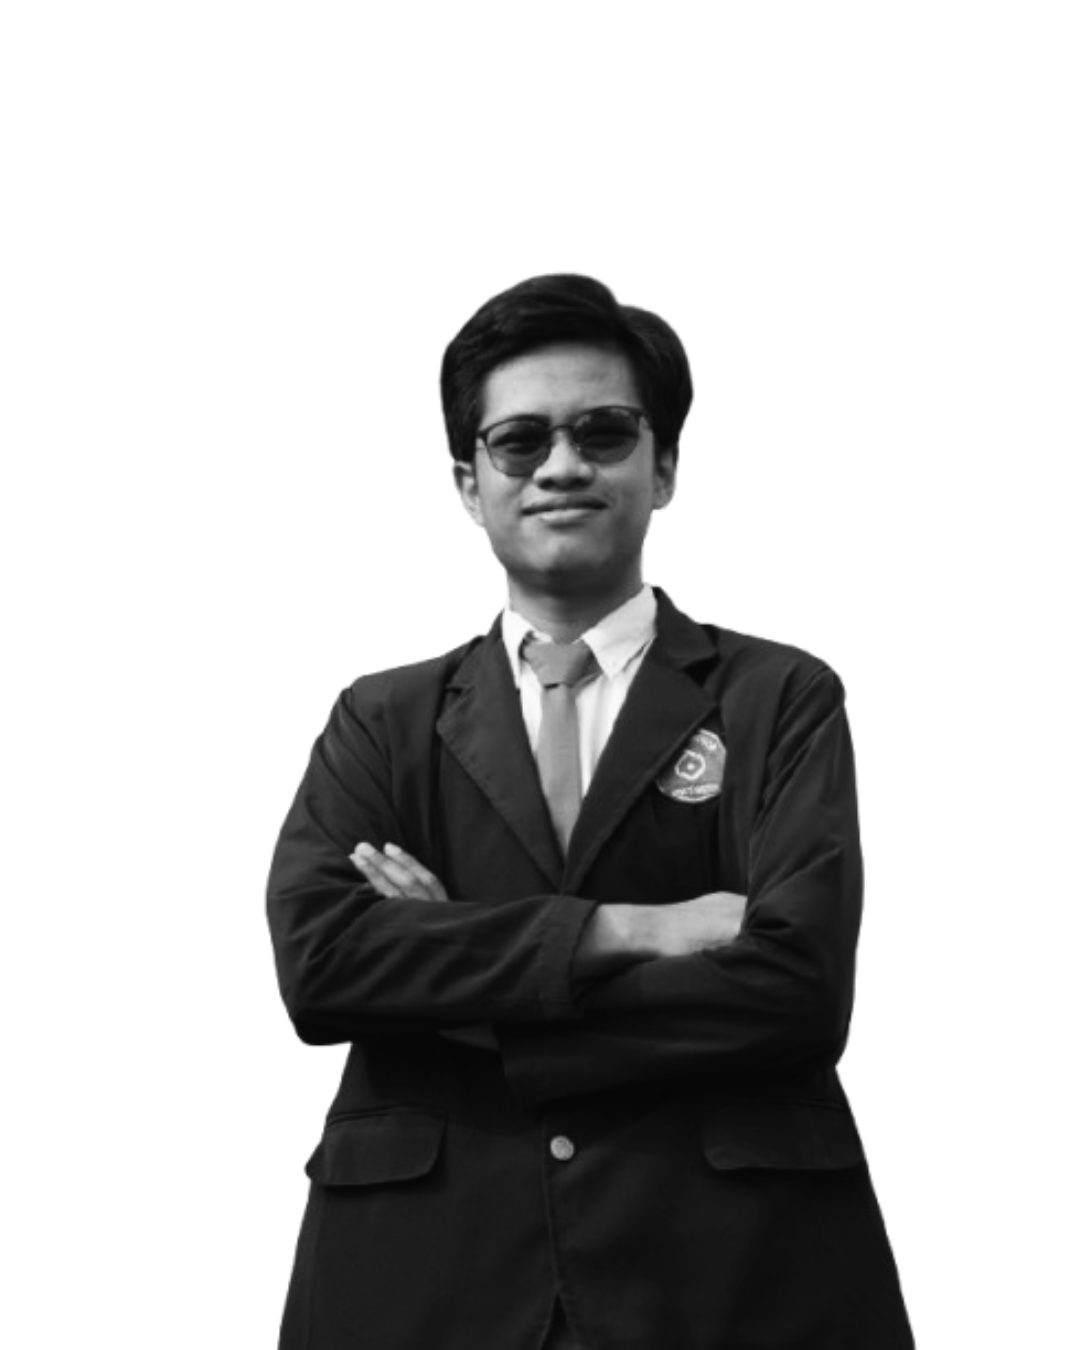
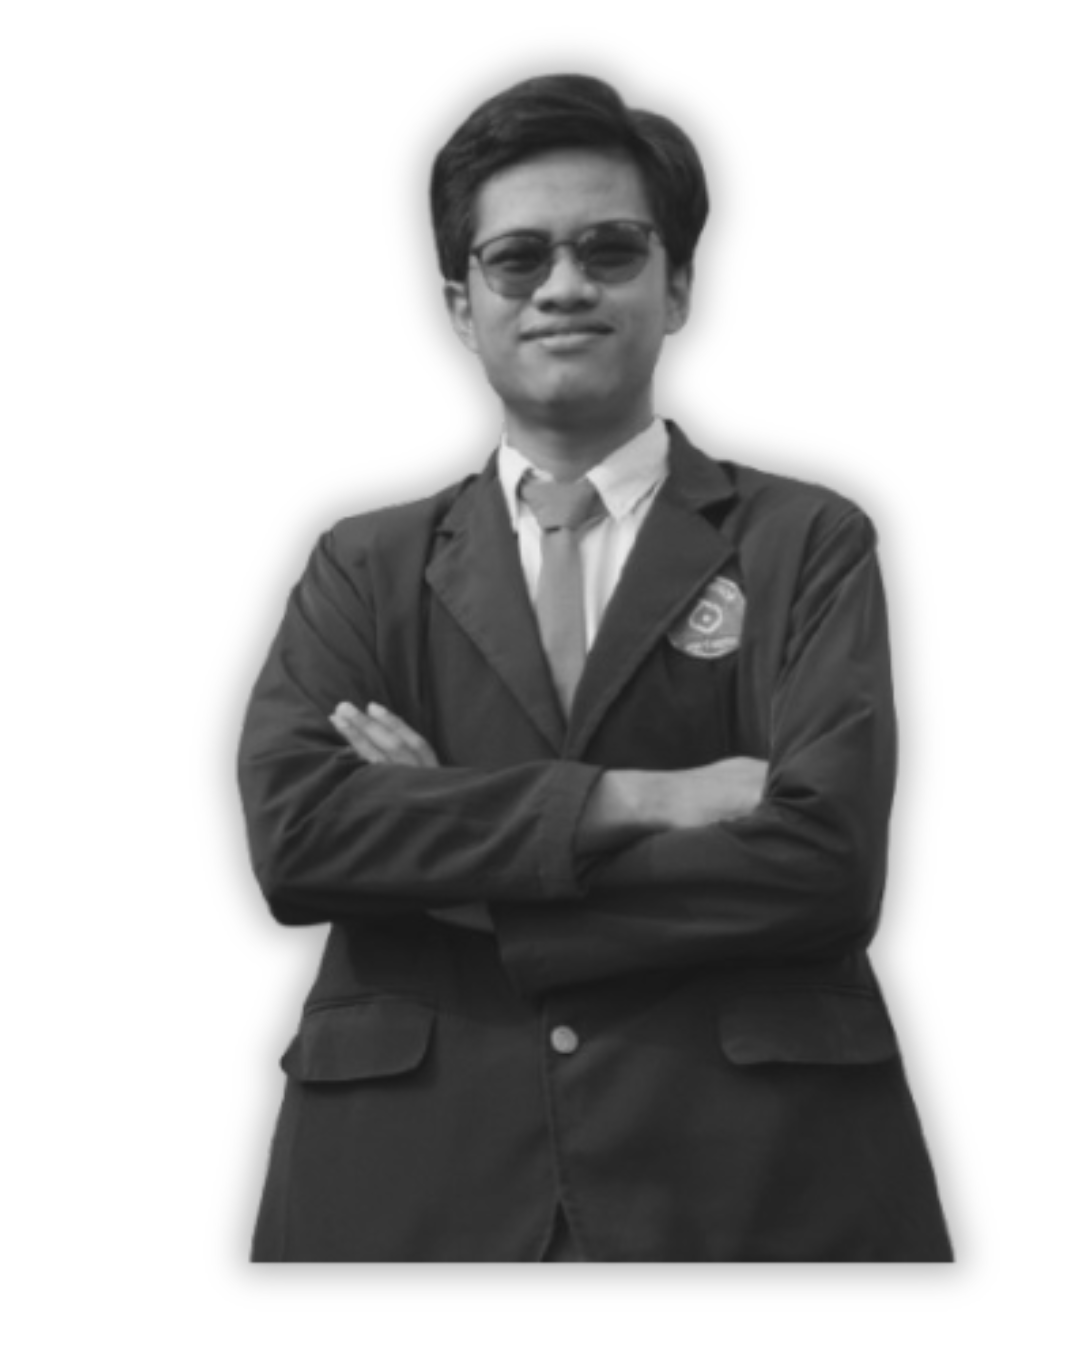
memperbaiki tampilan page

diff --git a/resources/views/shop/contact.blade.php b/resources/views/shop/contact.blade.php
@@ -1,63 +1,76 @@
 <x-shop-layout>
     <div class="py-12">
         <div class="max-w-7xl mx-auto px-4 sm:px-6 lg:px-8">
-            <div class="bg-white dark:bg-gray-800 overflow-hidden shadow-sm sm:rounded-lg">
+            <div class="bg-white dark:bg-gradient-to-tl from-gray-800 via-gray-900 to-gray-900 overflow-hidden shadow-sm sm:rounded-lg">
                 <div class="p-6 text-gray-900 dark:text-gray-100">
                     <!-- Contact Section -->
                     <div class="grid md:grid-cols-2 gap-12 items-center mb-16">
                         <!-- Left Column - Description -->
                         <div class="order-2 md:order-1">
-                            <h1 class="text-4xl font-bold mb-6 uppercase tracking-wider animate-purple-to-blue">Meet The Developer</h1>
+                            <h1 class="text-4xl md:text-5xl font-bold uppercase tracking-wider mb-6 text-violet-400">
+                                Meet the Developer
+                            </h1>
 
-                            <h2 class="text-3xl font-light mb-6">Syahban Syaputra</h2>
+                            <h2 class="text-2xl md:text-3xl font-semibold mb-6">
+                                Syahban Syaputra
+                            </h2>
 
-                            <div class="prose dark:prose-invert max-w-none mb-8">
-                                <p class="mb-4">
-                                    I'm a web developer currently studying at SMK TI BAZMA, majoring in Information
-                                    Systems, Networks, and Applications (SIJA). I specialize in building clean,
-                                    responsive, and user-friendly web applications with a focus on both functionality
-                                    and visual design.
+                            <div class="prose dark:prose-invert max-w-none mb-10 text-base md:text-lg leading-relaxed">
+                                <p>
+                                    I'm a junior web developer and IoT enthusiast currently studying at SMK TI BAZMA,
+                                    majoring in Information Systems, Networks, and Applications (SIJA). I focus on
+                                    building functional, clean, and responsive web applications, combining both
+                                    solid backend logic and intuitive visual design.
                                 </p>
-                                <p class="mb-4">
-                                    My experience includes working with HTML, CSS, JavaScript, PHP, and Express.js, as
-                                    well as design tools like Figma and Illustrator. I've developed several
-                                    projects—from a card-based attendance system and financial reporting dashboard to
-                                    event rating platforms—while actively contributing to school organizations and
-                                    robotics communities.
+                                <br>
+                                <p>
+                                    I’ve worked on a range of impactful projects—like an RFID-based attendance system,
+                                    a real-time financial reporting dashboard, and an event rating platform—primarily
+                                    using technologies like HTML, CSS, JavaScript, PHP, and Express.js. I'm also
+                                    experienced in frameworks like Next.js and design tools such as Figma and
+                                    Illustrator.
                                 </p>
-                                <p class="mb-4">
-                                    I enjoy turning ideas into digital products that are not only functional but also
-                                    intuitive and enjoyable to use. Clean code, good UX, and performance optimization
-                                    are things I care deeply about in every project I build.
+                                <br>
+                                <p>
+                                    Outside of coding, I actively contribute to school organizations, such as OSIS
+                                    and robotics extracurriculars, and have participated in several regional and
+                                    national
+                                    competitions.
+                                </p>
+                                <br>
+                                <p>
+                                    I’m passionate about turning ideas into products that are not only functional,
+                                    but also smooth, enjoyable, and performance-optimized. I believe great products
+                                    are built through clean code, thoughtful UX, and continuous learning.
                                 </p>
                             </div>
 
                             <!-- Social Media Icons -->
                             <div class="flex space-x-20 pt-5 items-center">
-                                <a href="https://instagram.com/yourprofile" target="_blank"
-                                    class="text-gray-700 dark:text-gray-300 hover:text-indigo-600 dark:hover:text-indigo-400 transition-colors">
-                                    <svg class="w-6 h-6" fill="currentColor" viewBox="0 0 24 24">
+                                <a href="https://instagram.com/syahban_245" target="_blank"
+                                    class="text-gray-700 dark:text-gray-300 hover:text-pink-500 dark:hover:text-pink-400 transition-colors">
+                                    <svg class="w-10 h-10" fill="currentColor" viewBox="0 0 24 24">
                                         <path
                                             d="M12 2.163c3.204 0 3.584.012 4.85.07 3.252.148 4.771 1.691 4.919 4.919.058 1.265.069 1.645.069 4.849 0 3.205-.012 3.584-.069 4.849-.149 3.225-1.664 4.771-4.919 4.919-1.266.058-1.644.07-4.85.07-3.204 0-3.584-.012-4.849-.07-3.26-.149-4.771-1.699-4.919-4.92-.058-1.265-.07-1.644-.07-4.849 0-3.204.013-3.583.07-4.849.149-3.227 1.664-4.771 4.919-4.919 1.266-.057 1.645-.069 4.849-.069zm0-2.163c-3.259 0-3.667.014-4.947.072-4.358.2-6.78 2.618-6.98 6.98-.059 1.281-.073 1.689-.073 4.948 0 3.259.014 3.668.072 4.948.2 4.358 2.618 6.78 6.98 6.98 1.281.058 1.689.072 4.948.072 3.259 0 3.668-.014 4.948-.072 4.354-.2 6.782-2.618 6.979-6.98.059-1.28.073-1.689.073-4.948 0-3.259-.014-3.667-.072-4.947-.196-4.354-2.617-6.78-6.979-6.98-1.281-.059-1.69-.073-4.949-.073zm0 5.838c-3.403 0-6.162 2.759-6.162 6.162s2.759 6.163 6.162 6.163 6.162-2.759 6.162-6.163c0-3.403-2.759-6.162-6.162-6.162zm0 10.162c-2.209 0-4-1.79-4-4 0-2.209 1.791-4 4-4s4 1.791 4 4c0 2.21-1.791 4-4 4zm6.406-11.845c-.796 0-1.441.645-1.441 1.44s.645 1.44 1.441 1.44c.795 0 1.439-.645 1.439-1.44s-.644-1.44-1.439-1.44z" />
                                     </svg>
                                 </a>
                                 <a href="https://linkedin.com/in/yourprofile" target="_blank"
-                                    class="text-gray-700 dark:text-gray-300 hover:text-indigo-600 dark:hover:text-indigo-400 transition-colors">
-                                    <svg class="w-6 h-6" fill="currentColor" viewBox="0 0 24 24">
+                                    class="text-gray-700 dark:text-gray-300 hover:text-sky-600 dark:hover:text-sky-400 transition-colors">
+                                    <svg class="w-10 h-10" fill="currentColor" viewBox="0 0 24 24">
                                         <path
                                             d="M19 0h-14c-2.761 0-5 2.239-5 5v14c0 2.761 2.239 5 5 5h14c2.762 0 5-2.239 5-5v-14c0-2.761-2.238-5-5-5zm-11 19h-3v-11h3v11zm-1.5-12.268c-.966 0-1.75-.79-1.75-1.764s.784-1.764 1.75-1.764 1.75.79 1.75 1.764-.783 1.764-1.75 1.764zm13.5 12.268h-3v-5.604c0-3.368-4-3.113-4 0v5.604h-3v-11h3v1.765c1.396-2.586 7-2.777 7 2.476v6.759z" />
                                     </svg>
                                 </a>
-                                <a href="https://github.com/yourprofile" target="_blank"
-                                    class="text-gray-700 dark:text-gray-300 hover:text-indigo-600 dark:hover:text-indigo-400 transition-colors">
-                                    <svg class="w-6 h-6" fill="currentColor" viewBox="0 0 24 24">
+                                <a href="https://github.com/syahban-afk" target="_blank"
+                                    class="text-gray-700 dark:text-gray-300 hover:text-gray-800 dark:hover:text-gray-200 transition-colors">
+                                    <svg class="w-10 h-10" fill="currentColor" viewBox="0 0 24 24">
                                         <path
                                             d="M12 0c-6.626 0-12 5.373-12 12 0 5.302 3.438 9.8 8.207 11.387.599.111.793-.261.793-.577v-2.234c-3.338.726-4.033-1.416-4.033-1.416-.546-1.387-1.333-1.756-1.333-1.756-1.089-.745.083-.729.083-.729 1.205.084 1.839 1.237 1.839 1.237 1.07 1.834 2.807 1.304 3.492.997.107-.775.418-1.305.762-1.604-2.665-.305-5.467-1.334-5.467-5.931 0-1.311.469-2.381 1.236-3.221-.124-.303-.535-1.524.117-3.176 0 0 1.008-.322 3.301 1.23.957-.266 1.983-.399 3.003-.404 1.02.005 2.047.138 3.006.404 2.291-1.552 3.297-1.23 3.297-1.23.653 1.653.242 2.874.118 3.176.77.84 1.235 1.911 1.235 3.221 0 4.609-2.807 5.624-5.479 5.921.43.372.823 1.102.823 2.222v3.293c0 .319.192.694.801.576 4.765-1.589 8.199-6.086 8.199-11.386 0-6.627-5.373-12-12-12z" />
                                     </svg>
                                 </a>
                                 <a href="https://syahban-portfolio.vercel.app/" target="_blank"
-                                    class="text-gray-700 dark:text-gray-300 hover:text-indigo-600 dark:hover:text-indigo-400 transition-colors">
-                                    <svg class="w-6 h-6" fill="currentColor" viewBox="0 0 512 512">
+                                    class="text-gray-700 dark:text-gray-300 hover:text-emerald-600 dark:hover:text-emerald-400 transition-colors">
+                                    <svg class="w-10 h-10" fill="currentColor" viewBox="0 0 512 512">
                                         <path
                                             d="M157.114,188.969h28.438c3.269-13.719,7.51-26.333,12.545-37.485c-9.62,5.348-18.555,12.064-26.552,20.061 C166.14,176.95,161.323,182.786,157.114,188.969z" />
                                         <path
@@ -85,10 +98,8 @@
 
                         <!-- Right Column - Photo -->
                         <div class="order-1 md:order-2">
-                            <div class="relative">
-                                <div class="absolute rounded-lg"></div>
-                                <img src={{asset('page/me.png')}}
-                                    alt="Me" class="relative w-full h-100 rounded-lg shadow-xl rounded-[50%] bg-red-100">
+                            <div class="relative group w-fit mx-auto">
+                                <img src={{ asset('page/me.png') }} alt="Me" class="relative w-full h-auto group-hover:opacity-80 transition duration-500">
                             </div>
                         </div>
                     </div>

diff --git a/resources/views/shop/about.blade.php b/resources/views/shop/about.blade.php
@@ -1,7 +1,7 @@
 <x-shop-layout>
     <div class="py-12">
         <div class="max-w-7xl mx-auto px-4 sm:px-6 lg:px-8">
-            <div class="bg-white dark:bg-gray-800 overflow-hidden shadow-sm sm:rounded-lg">
+            <div class="bg-white dark:bg-gradient-to-tl from-gray-800 via-gray-900 to-gray-900 overflow-hidden shadow-sm sm:rounded-lg">
                 <div class="p-6 text-gray-900 dark:text-gray-100">
                     <!-- Hero Section -->
                     <section class="mb-16 text-center">
@@ -32,6 +32,12 @@
                         <div class="flex flex-col gap-4">
 
                             <div class="flex gap-4">
+
+                                <div class="w-2/3 aspect-[3/4] overflow-hidden rounded-[15%]">
+                                    <img src="https://images.pexels.com/photos/376464/pexels-photo-376464.jpeg?auto=compress&cs=tinysrgb&w=1260&h=750&dpr=2"
+                                        alt="Kue" class="w-full h-full object-cover">
+                                </div>
+
                                 <div class="w-1/3 flex flex-col gap-4">
                                     <div class="aspect-square overflow-hidden rounded-full">
                                         <img src="https://images.unsplash.com/photo-1550317138-10000687a72b?auto=format&fit=crop&w=800&q=80"
@@ -41,11 +47,6 @@
                                         <img src="https://images.pexels.com/photos/842571/pexels-photo-842571.jpeg?auto=compress&cs=tinysrgb&w=1260&h=750&dpr=2"
                                             alt="Pancake" class="w-full h-full object-cover">
                                     </div>
-                                </div>
-
-                                <div class="w-2/3 aspect-[3/4] overflow-hidden rounded-[15%]">
-                                    <img src="https://images.pexels.com/photos/376464/pexels-photo-376464.jpeg?auto=compress&cs=tinysrgb&w=1260&h=750&dpr=2"
-                                        alt="Kue" class="w-full h-full object-cover">
                                 </div>
 
                             </div>
@@ -58,7 +59,7 @@
                         <h2 class="text-2xl font-bold mb-8 text-center">Nilai-Nilai Kami</h2>
                         <div class="grid md:grid-cols-3 gap-8">
                             <div class="bg-gray-100 dark:bg-gray-700 p-6 rounded-lg">
-                                <div class="text-indigo-600 dark:text-indigo-400 mb-4">
+                                <div class="ttext-indigo-600 dark:text-indigo-400 dark:drop-shadow-[0_0_4px_#818cf8] transition-all mb-4">
                                     <svg class="w-10 h-10" fill="none" stroke="currentColor" viewBox="0 0 24 24">
                                         <path stroke-linecap="round" stroke-linejoin="round" stroke-width="2"
                                             d="M9 12l2 2 4-4m5.618-4.016A11.955 11.955 0 0112 2.944a11.955 11.955 0 01-8.618 3.04A12.02 12.02 0 003 9c0 5.591 3.824 10.29 9 11.622 5.176-1.332 9-6.03 9-11.622 0-1.042-.133-2.052-.382-3.016z">
@@ -70,7 +71,7 @@
                             </div>
 
                             <div class="bg-gray-100 dark:bg-gray-700 p-6 rounded-lg">
-                                <div class="text-indigo-600 dark:text-indigo-400 mb-4">
+                                <div class="ttext-indigo-600 dark:text-indigo-400 dark:drop-shadow-[0_0_4px_#818cf8] transition-all mb-4">
                                     <svg class="w-10 h-10" fill="none" stroke="currentColor" viewBox="0 0 24 24">
                                         <path stroke-linecap="round" stroke-linejoin="round" stroke-width="2"
                                             d="M13 10V3L4 14h7v7l9-11h-7z"></path>
@@ -81,7 +82,7 @@
                             </div>
 
                             <div class="bg-gray-100 dark:bg-gray-700 p-6 rounded-lg">
-                                <div class="text-indigo-600 dark:text-indigo-400 mb-4">
+                                <div class="ttext-indigo-600 dark:text-indigo-400 dark:drop-shadow-[0_0_4px_#818cf8] transition-all mb-4">
                                     <svg class="w-10 h-10" fill="none" stroke="currentColor" viewBox="0 0 24 24">
                                         <path stroke-linecap="round" stroke-linejoin="round" stroke-width="2"
                                             d="M17 8h2a2 2 0 012 2v6a2 2 0 01-2 2h-2v4l-4-4H9a1.994 1.994 0 01-1.414-.586m0 0L11 14h4a2 2 0 002-2V6a2 2 0 00-2-2H5a2 2 0 00-2 2v6a2 2 0 002 2h2v4l.586-.586z">
